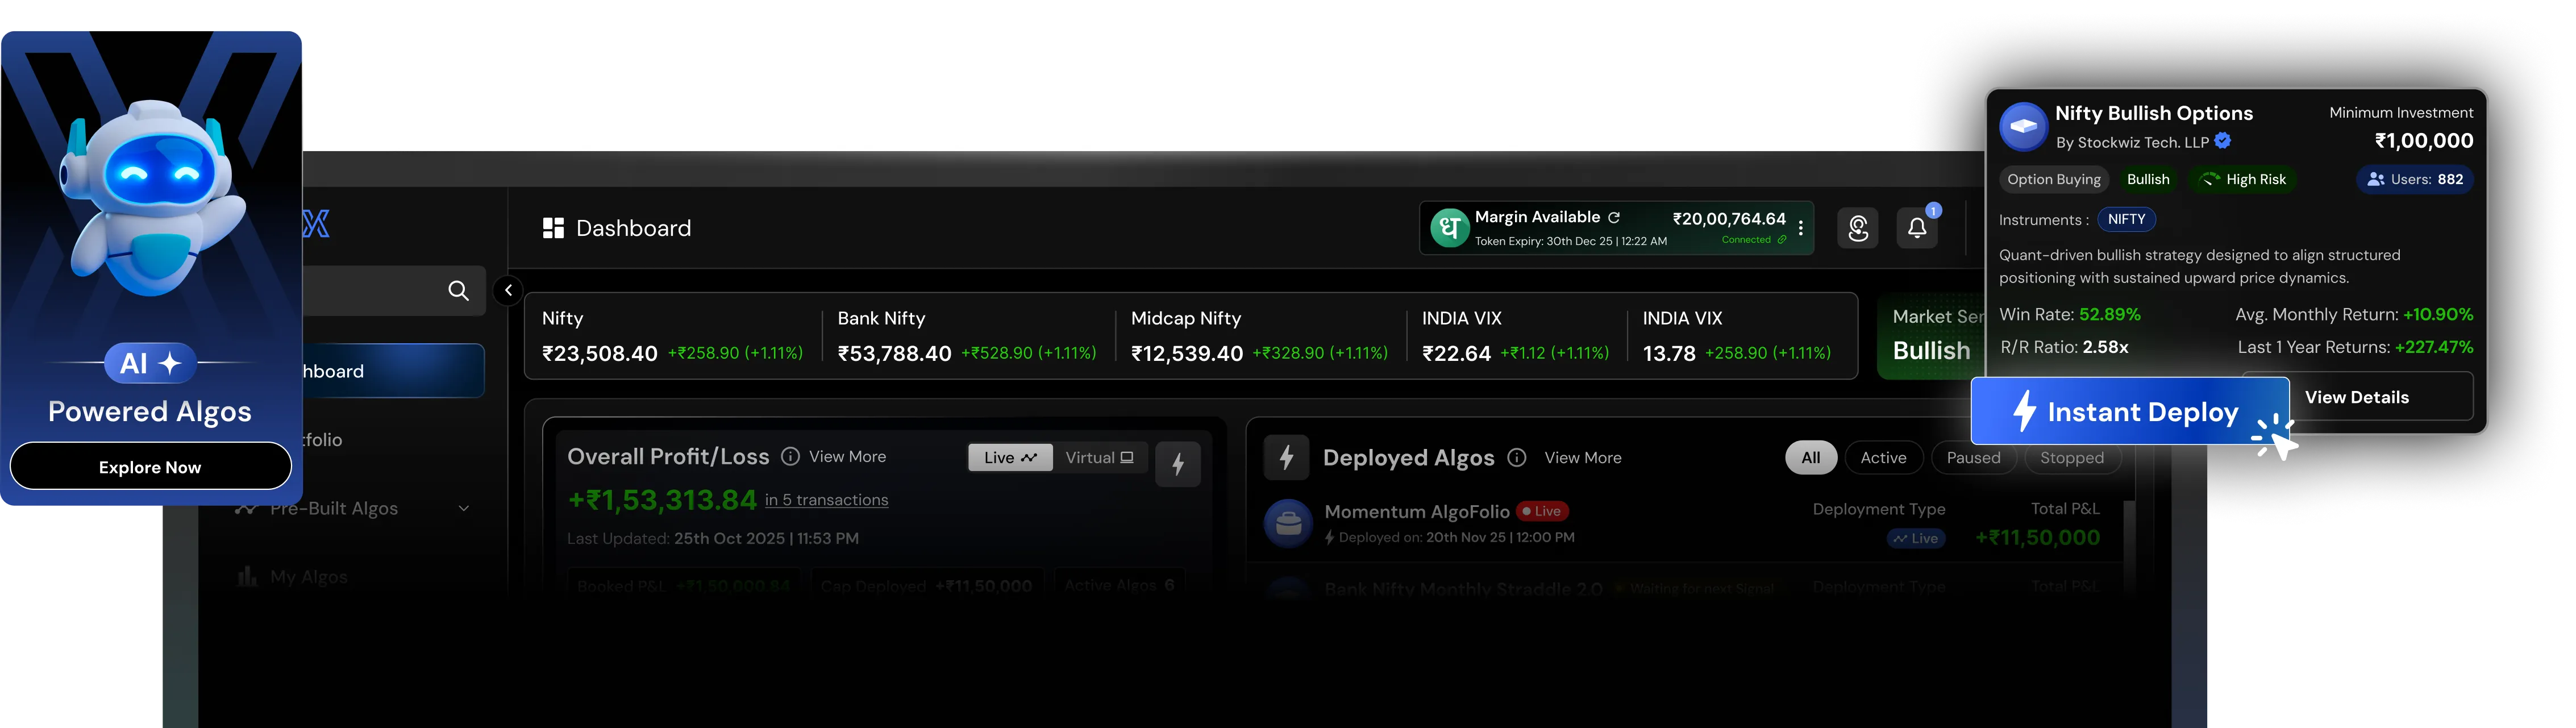
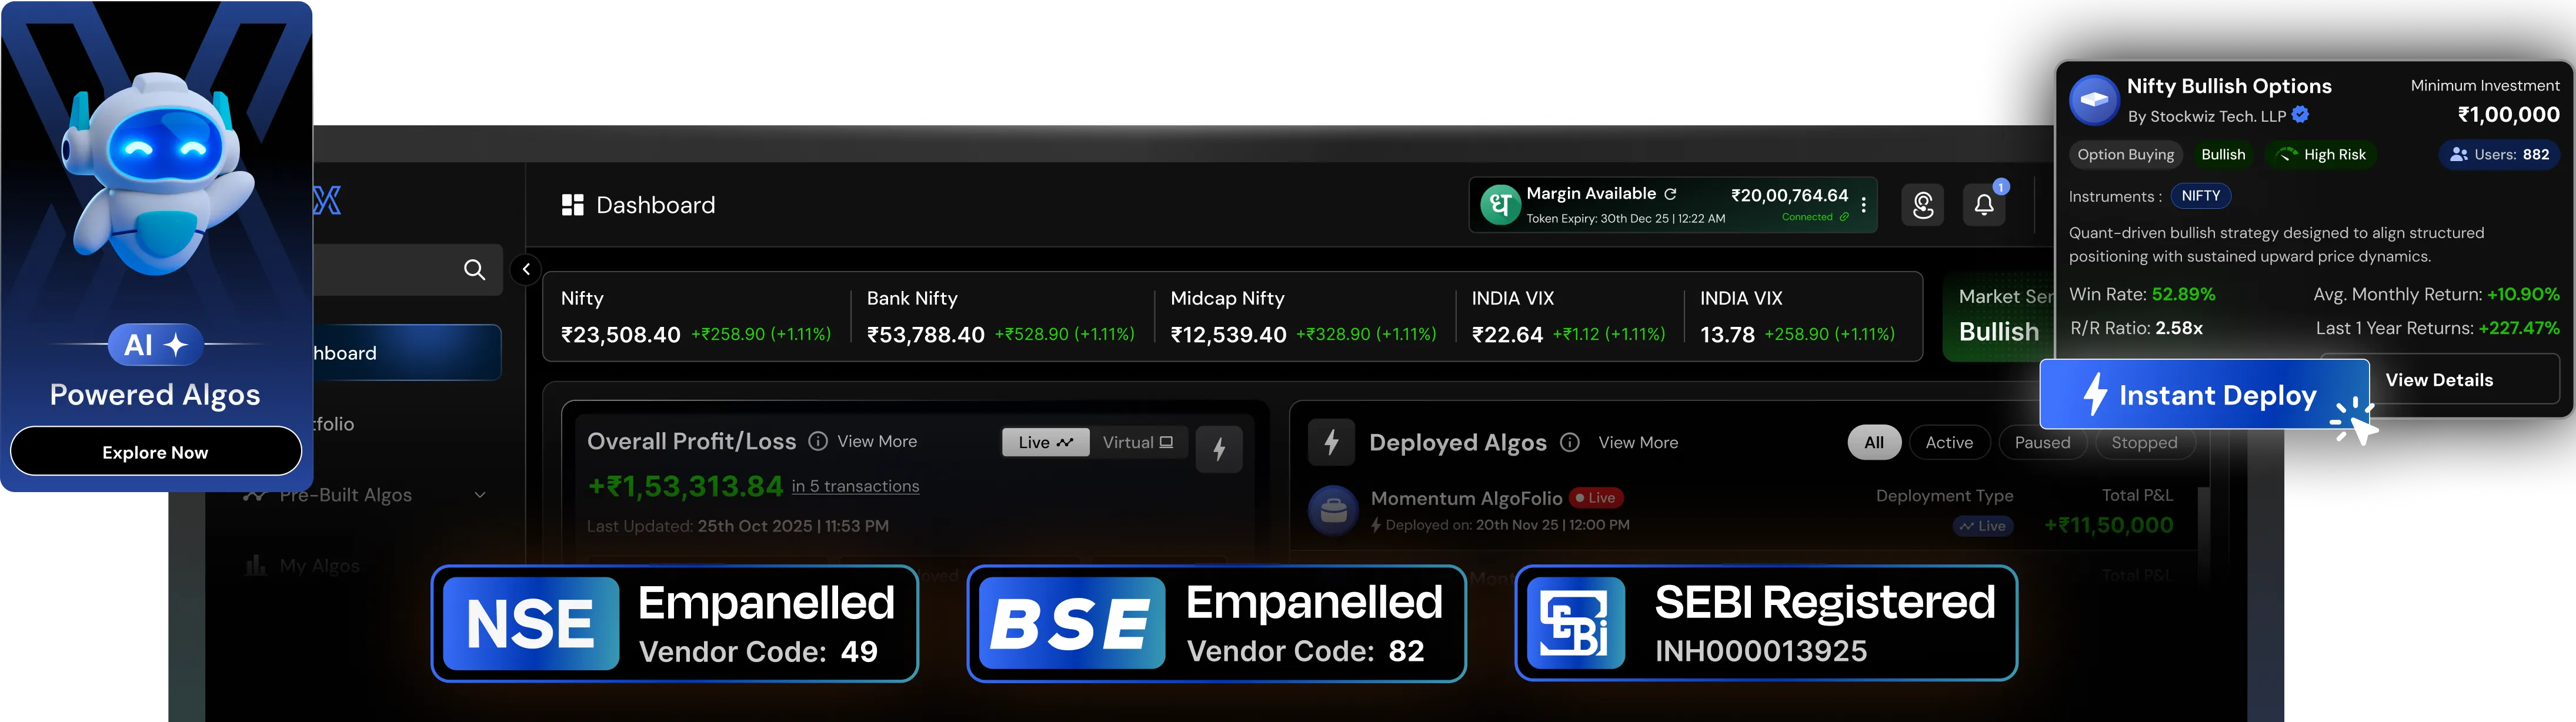
Add new compliance-related SVG assets, create ComplianceTrust component to display them, and update LandingPage to include the new component. Adjust layout in various components for improved spacing and consistency.

Changed region(s): [[0.0, 0.0, 1.0, 1.0]]

diff --git a/src/components/ComplianceTrust.jsx b/src/components/ComplianceTrust.jsx
@@ -1,0 +1,59 @@
+import React from "react";
+import { AnimateFromInside } from "../common/ScrollFadeIn";
+import sebiRegister1 from "../assets/svg/sebiregister1.svg";
+import sebiRegister2 from "../assets/svg/sebiregister2.svg";
+import sebiRegister3 from "../assets/svg/sebiregister3.svg";
+
+const ComplianceTrust = () => {
+  return (
+    <section className="w-full bg-[#010611] px-4 md:px-80 3xl:px-[450px] pt-8 md:pt-10 pb-8 md:pb-12">
+      <AnimateFromInside>
+        <h2 className="font-degular text-center text-[24px] md:text-[40px] leading-[32px] md:leading-[52px]">
+          <span className="font-normal text-[#FFFFFF99]">Honest about risk. </span>
+          <span className="font-semibold text-white">
+            Transparent about compliance.
+          </span>
+        </h2>
+      </AnimateFromInside>
+
+      <div className="mt-4 w-full max-w-[1100px] mx-auto flex flex-col items-center gap-4">
+        <AnimateFromInside className="w-full flex justify-center">
+          <div className="flex justify-center w-full">
+            <img
+              src={sebiRegister1}
+              alt="SEBI Registered"
+              className="object-cover"
+              draggable={false}
+            />
+          </div>
+        </AnimateFromInside>
+
+        <div className="grid grid-cols-1 md:grid-cols-2 gap-4 justify-items-center">
+          <AnimateFromInside className="flex justify-center w-full">
+            <div className="flex justify-center w-full">
+              <img
+                src={sebiRegister2}
+                alt="NSE Empanelled Algo Platform"
+                className="object-cover"
+                draggable={false}
+              />
+            </div>
+          </AnimateFromInside>
+
+          <AnimateFromInside className="flex justify-center w-full">
+            <div className="flex justify-center w-full">
+              <img
+                src={sebiRegister3}
+                alt="BSE Empanelled Algo Platform"
+                className="object-cover"
+                draggable={false}
+              />
+            </div>
+          </AnimateFromInside>
+        </div>
+      </div>
+    </section>
+  );
+};
+
+export default ComplianceTrust;

diff --git a/src/pages/LandingPage.jsx b/src/pages/LandingPage.jsx
@@ -1,4 +1,4 @@
-import React, { useEffect } from "react";
+import React from "react";
 import MainLayout from "../layouts/MainLayout.jsx";
 import Hero from "../components/Hero.jsx";
 import AILogoSection from "../components/AILogoSection.jsx";
@@ -8,6 +8,7 @@ import Faq from "../components/Faq.jsx";
 import ThreeMInutesVideo from "../components/ThreeMInutesVideo.jsx";
 import CompanyLogoMarquee from "../components/CompanyLogoMarquee.jsx";
 import WebinarBonus from "../components/WebinarBonus.jsx";
+import ComplianceTrust from "../components/ComplianceTrust.jsx";
 import Coach from "../components/Coach.jsx";
 import Certified from "../components/Certified.jsx";
 import SuperTraders from "../components/SuperTraders.jsx";
@@ -26,29 +27,32 @@ const LandingPage = () => {
         <ThreeMInutesVideo />
       </div>
       <div>
+        <CompanyLogoMarquee />
+      </div>
+      <div>
         <WebinarHighlights />
       </div>
       <div>
-        <CompanyLogoMarquee />
+        <Coach />
       </div>
-        <div>
-          <AlgoTradingBots />
-        </div>
-        <div>
-          <WebinarBonus />
-        </div>
-        <div>
-          <Coach />
-        </div>
-        <div>
-          <Certified />
-        </div>
-        <div>
-          <Quotes />
-        </div>
-        <div>
-          <SuperTraders />
-        </div>
+      <div>
+        <AlgoTradingBots />
+      </div>
+      <div>
+        <WebinarBonus />
+      </div>
+      <div>
+        <ComplianceTrust />
+      </div>
+      <div>
+        <Certified />
+      </div>
+      <div>
+        <SuperTraders />
+      </div>
+      <div>
+        <Quotes />
+      </div>
       <div>
         <Faq />
       </div>

diff --git a/src/components/WebinarBonus.jsx b/src/components/WebinarBonus.jsx
@@ -182,7 +182,7 @@ const WebinarBonus = () => {
   );
 
   return (
-    <div className="bg-[#010611] text-white flex flex-col md:gap-6 gap-4 justify-center md:px-80 3xl:px-[450px] px-4 pt-20 md:pt-28 pb-8 w-full">
+    <div className="bg-[#010611] text-white flex flex-col md:gap-6 gap-4 justify-center md:px-80 3xl:px-[450px] px-4 pt-8 md:pt-12 pb-8 w-full">
       {/* Heading */}
       <AnimateFromInside>
         <h2 className="font-semibold md:text-[64px] text-[32px] md:leading-[72px] leading-[36px] font-degular text-center">
@@ -225,13 +225,10 @@ const WebinarBonus = () => {
         </div>
       </div>
       <AnimateFromInside>
-        <div className="flex justify-center items-center md:mt-0 mt-8">
+        <div className="flex justify-center items-center">
           <CTAButton />
         </div>
       </AnimateFromInside>
-      <p className="font-medium  md:font-poppins text-[14px] md:text-[20px] leading-[20px] md:leading-[30px] text-center">
-        Register today and unlock all the below mentioned bonuses worth ₹ 25,499
-      </p>
     </div>
   );
 };

diff --git a/src/components/Coach.jsx b/src/components/Coach.jsx
@@ -23,7 +23,7 @@ const Coach = () => {
   ];
 
   return (
-    <div className="flex flex-col items-center justify-center gap-6 md:gap-10 bg-[#010611] h-auto md:pt-28 pt-20 pb-8 md:px-80 3xl:px-[450px] px-4 w-full">
+    <div className="flex flex-col items-center justify-center gap-6 md:gap-10 bg-[#010611] h-auto pt-8 md:pt-12 pb-8 md:px-80 3xl:px-[450px] px-4 w-full">
       {/* Heading */}
       <AnimateFromInside>
         <h2 className="font-semibold text-white md:text-[56px] text-[32px] md:leading-[74px] leading-[38px] font-degular text-center w-full">

diff --git a/src/components/CompanyLogoMarquee.jsx b/src/components/CompanyLogoMarquee.jsx
@@ -44,7 +44,7 @@ const CompanyLogoMarquee = () => {
   const logos1 = [...logos, ...logos, ...logos, ...logos];
 
   return (
-    <div className="bg-[#010611] text-white flex flex-col items-center md:px-40 md:pt-16 pt-20 gap-6 w-full">
+    <div className="bg-[#010611] text-white flex flex-col items-center w-full px-4 md:px-80 3xl:px-[450px] pt-0 pb-8 md:pb-12 gap-6">
       <div className="flex flex-col md:gap-6 gap-4 justify-center items-center w-full md:py-5 py-2">
         <AnimateFromInside>
           <p className="text-center w-full font-medium md:text-[24px] text-[18px] leading-[28px]">

diff --git a/src/components/Hero.jsx b/src/components/Hero.jsx
@@ -198,7 +198,7 @@ const Hero = () => {
                 <img
                   src={heroVisual}
                   alt="StrykeX AI powered algo trading dashboard"
-                  className="relative left-16 w-full h-auto block"
+                  className="relative left-10 w-full h-auto block"
                   draggable={false}
                 />
               </div>

diff --git a/src/components/ThreeMInutesVideo.jsx b/src/components/ThreeMInutesVideo.jsx
@@ -4,7 +4,7 @@ import CTAButton from "../common/CTAButton";
 
 const ThreeMInutesVideo = () => {
   return (
-    <div className="bg-[#010611] text-white flex flex-col items-center px-4 md:px-80 3xl:px-[450px] pt-20 pb-8 md:gap-6 gap-2 w-full">
+    <div className="bg-[#010611] text-white flex flex-col items-center px-4 md:px-80 3xl:px-[450px] pt-20 pb-12 md:pb-16 md:gap-6 gap-2 w-full">
       <AnimateFromInside>
         <p className="font-degular font-normal text-[32px] md:text-[64px] text-[#FFFFFF99] leading-[36px] md:leading-[72px] text-center">
           <span className="font-semibold text-white">

diff --git a/src/components/WebinarHighlights.jsx b/src/components/WebinarHighlights.jsx
@@ -12,7 +12,7 @@ import verifiedpl from "../assets/webp/verifiedpl.webp";
 
 const WebinarHighlights = () => {
   return (
-    <div className="bg-[#010611] text-white flex flex-col md:px-80 3xl:px-[450px] px-4 md:pt-28 pt-20 pb-8 md:gap-6 gap-4 w-full">
+    <div className="bg-[#010611] text-white flex flex-col md:px-80 3xl:px-[450px] px-4 pt-8 md:pt-12 pb-8 md:gap-6 gap-4 w-full">
       <AnimateFromInside>
         <p className="font-normal md:text-[64px] text-[32px] text-[#FFFFFF99] md:leading-[74px] leading-[36px] font-degular text-center">
           <span className="font-semibold text-white">Webinar Highlights</span> –